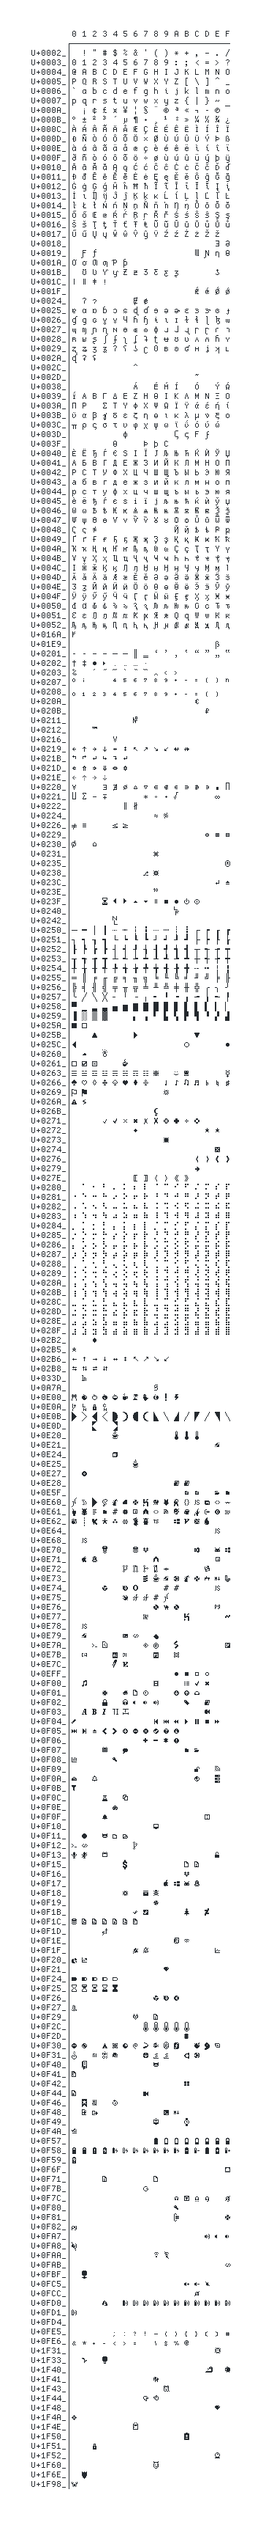
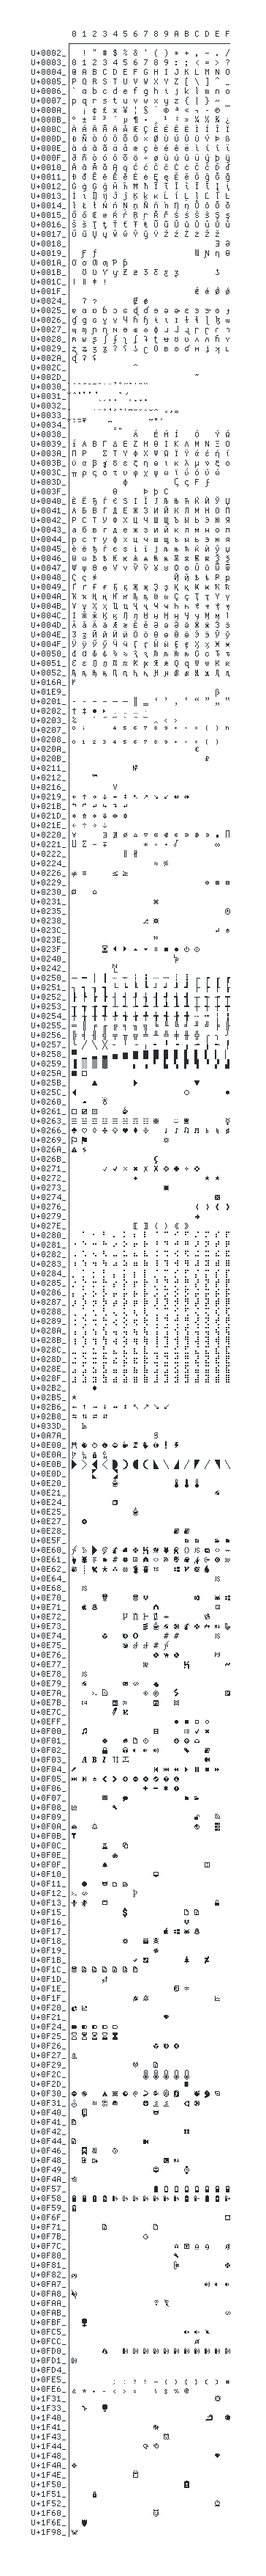
Add images

diff --git a/cozette_builder/imagegen.py b/cozette_builder/imagegen.py
@@ -172,8 +172,11 @@ def make_charlist_text(sfd: Path) -> str:
     text = ""
     for c in sfd_codepoints(sfd):
         if c > 32 and c not in (127,):
-            ch = chr(c)
-            text += ch if charwidth(ch) == "W" else f"{ch} "
+            if 0x300 <= c < 0x370:
+                text += f" {chr(c)} "
+            else:
+                ch = chr(c)
+                text += ch if charwidth(ch) == "W" else f"{ch} "
     return text
 
 

diff --git a/CHANGELOG.md b/CHANGELOG.md
@@ -5,6 +5,87 @@ All notable changes to this project will be documented in this file.
 The format is based on [Keep a Changelog], and this project adheres to
 [Semantic Versioning].
 
+## [1.12.0]
+
+### Added
+
+- ̀ (U+0300 COMBINING GRAVE ACCENT)
+- ́ (U+0301 COMBINING ACUTE ACCENT)
+- ̂ (U+0302 COMBINING CIRCUMFLEX ACCENT)
+- ̃ (U+0303 COMBINING TILDE)
+- ̄ (U+0304 COMBINING MACRON)
+- ̅ (U+0305 COMBINING OVERLINE)
+- ̆ (U+0306 COMBINING BREVE)
+- ̇ (U+0307 COMBINING DOT ABOVE)
+- ̈ (U+0308 COMBINING DIAERESIS)
+- ̉ (U+0309 COMBINING HOOK ABOVE)
+- ̊ (U+030A COMBINING RING ABOVE)
+- ̋ (U+030B COMBINING DOUBLE ACUTE ACCENT)
+- ̌ (U+030C COMBINING CARON)
+- ̍ (U+030D COMBINING VERTICAL LINE ABOVE)
+- ̎ (U+030E COMBINING DOUBLE VERTICAL LINE ABOVE)
+- ̏ (U+030F COMBINING DOUBLE GRAVE ACCENT)
+- ̐ (U+0310 COMBINING CANDRABINDU)
+- ̑ (U+0311 COMBINING INVERTED BREVE)
+- ̒ (U+0312 COMBINING TURNED COMMA ABOVE)
+- ̓ (U+0313 COMBINING COMMA ABOVE)
+- ̔ (U+0314 COMBINING REVERSED COMMA ABOVE)
+- ̕ (U+0315 COMBINING COMMA ABOVE RIGHT)
+- ̖ (U+0316 COMBINING GRAVE ACCENT BELOW)
+- ̗ (U+0317 COMBINING ACUTE ACCENT BELOW)
+- ̘ (U+0318 COMBINING LEFT TACK BELOW)
+- ̙ (U+0319 COMBINING RIGHT TACK BELOW)
+- ̚ (U+031A COMBINING LEFT ANGLE ABOVE)
+- ̛ (U+031B COMBINING HORN)
+- ̜ (U+031C COMBINING LEFT HALF RING BELOW)
+- ̝ (U+031D COMBINING UP TACK BELOW)
+- ̞ (U+031E COMBINING DOWN TACK BELOW)
+- ̟ (U+031F COMBINING PLUS SIGN BELOW)
+- ̠ (U+0320 COMBINING MINUS SIGN BELOW)
+- ̣ (U+0323 COMBINING DOT BELOW)
+- ̤ (U+0324 COMBINING DIAERESIS BELOW)
+- ̥ (U+0325 COMBINING RING BELOW)
+- ̦ (U+0326 COMBINING COMMA BELOW)
+- ̧ (U+0327 COMBINING CEDILLA)
+- ̨ (U+0328 COMBINING OGONEK)
+- ̩ (U+0329 COMBINING VERTICAL LINE BELOW)
+- ̪ (U+032A COMBINING BRIDGE BELOW)
+- ̫ (U+032B COMBINING INVERTED DOUBLE ARCH BELOW)
+- ̬ (U+032C COMBINING CARON BELOW)
+- ̭ (U+032D COMBINING CIRCUMFLEX ACCENT BELOW)
+- ̮ (U+032E COMBINING BREVE BELOW)
+- ̯ (U+032F COMBINING INVERTED BREVE BELOW)
+- ̰ (U+0330 COMBINING TILDE BELOW)
+- ̱ (U+0331 COMBINING MACRON BELOW)
+- ̲ (U+0332 COMBINING LOW LINE)
+- ̳ (U+0333 COMBINING DOUBLE LOW LINE)
+- ̺ (U+033A COMBINING INVERTED BRIDGE BELOW)
+- ̻ (U+033B COMBINING SQUARE BELOW)
+- ̼ (U+033C COMBINING SEAGULL BELOW)
+- ̽ (U+033D COMBINING X ABOVE)
+- ̾ (U+033E COMBINING VERTICAL TILDE)
+- ̿ (U+033F COMBINING DOUBLE OVERLINE)
+- ̀ (U+0340 COMBINING GRAVE TONE MARK)
+- ́ (U+0341 COMBINING ACUTE TONE MARK)
+- ͂ (U+0342 COMBINING GREEK PERISPOMENI)
+- ̓ (U+0343 COMBINING GREEK KORONIS)
+- ͆ (U+0346 COMBINING BRIDGE ABOVE)
+- ͇ (U+0347 COMBINING EQUALS SIGN BELOW)
+- ͈ (U+0348 COMBINING DOUBLE VERTICAL LINE BELOW)
+
+### Changed
+
+- к (U+043A CYRILLIC SMALL LETTER KA)
+- ь (U+044C CYRILLIC SMALL LETTER SOFT SIGN)
+- ё (U+0451 CYRILLIC SMALL LETTER IO)
+- № (U+2116 NUMERO SIGN)
+- ⌀ (U+2300 DIAMETER SIGN)
+
+### Removed
+
+- ✱ (U+2731 HEAVY ASTERISK)
+
+
 ## [1.11.3]
 
 ### Added
